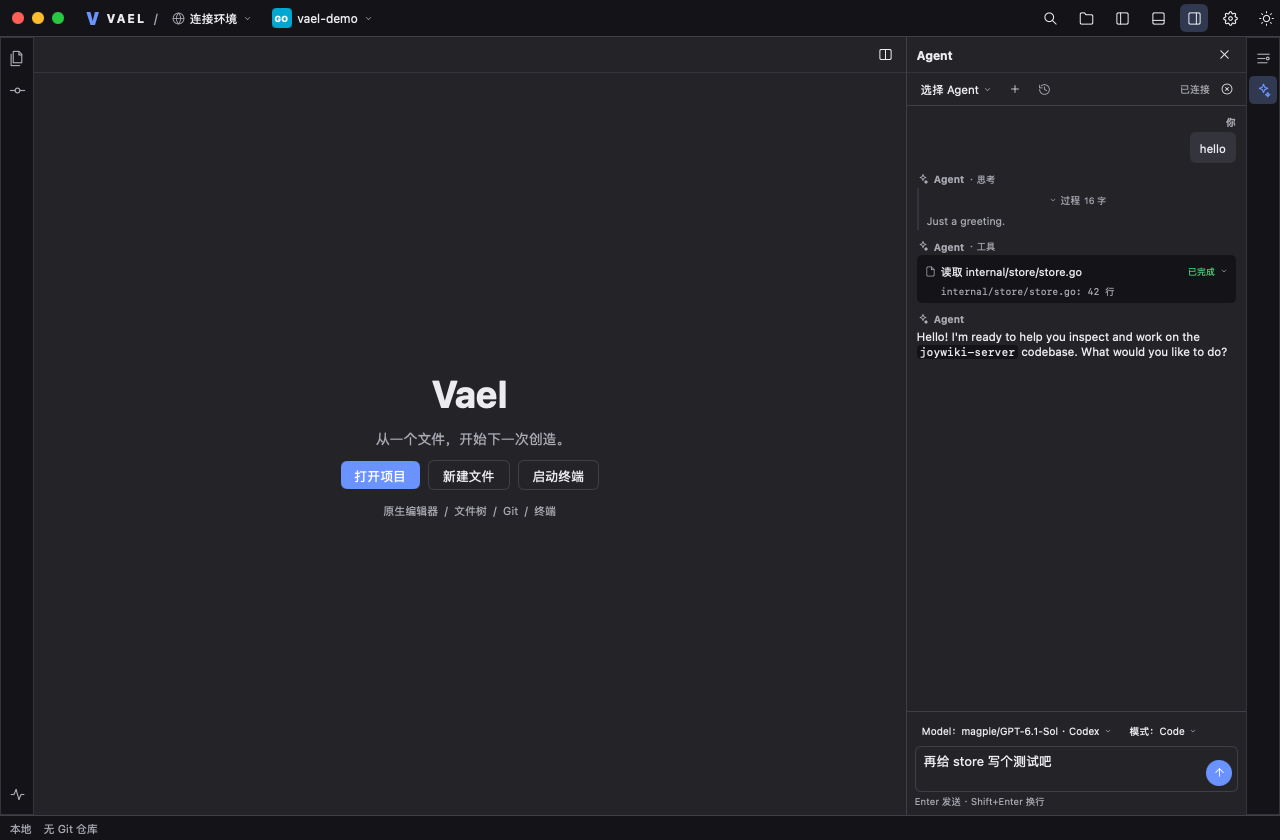
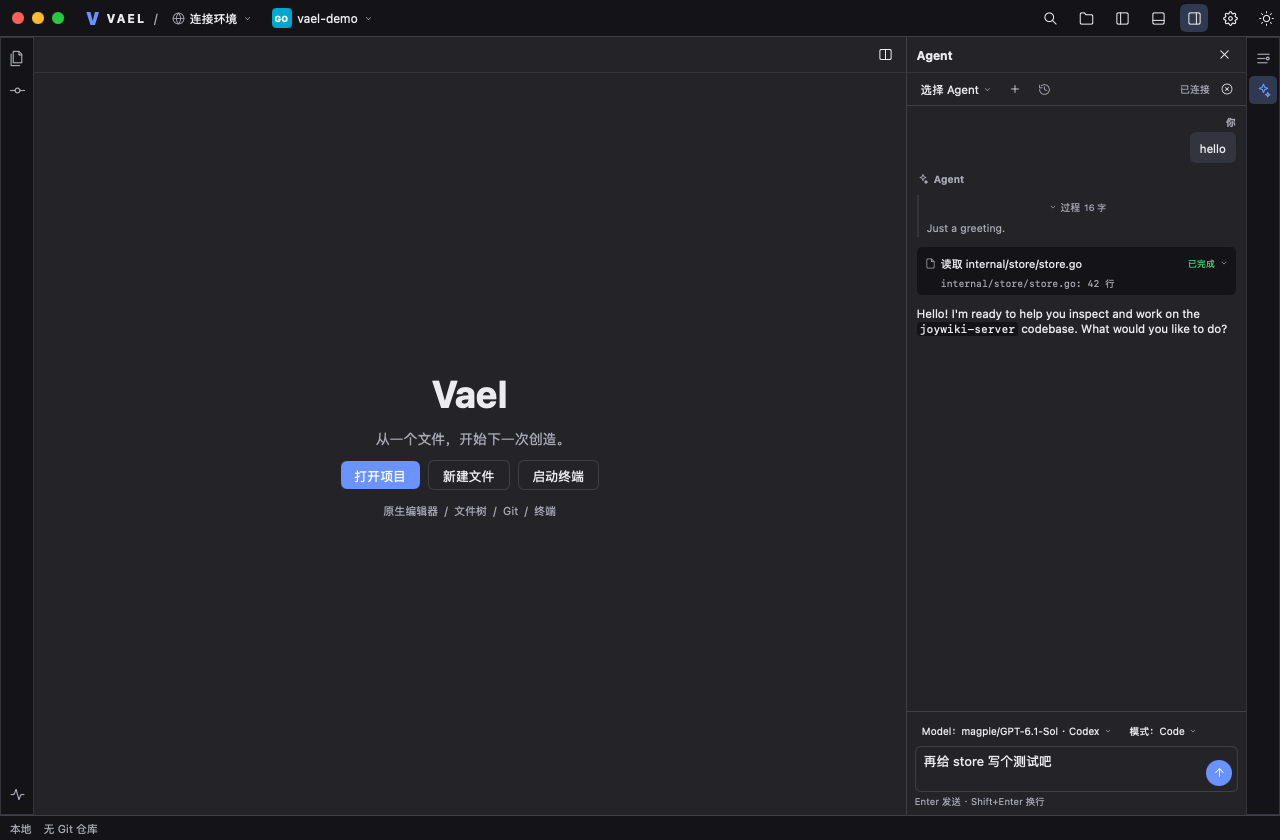
Agent 标记只在每段回复的顶部显示一次
- 之前思考、工具、回答各自画一个「Agent」，同一段回复里重复三次；
  改为在连续的 Agent 内容（thought/tool/agent）之前画一次，
  下一段用户提问之后再画一次；
- 去掉发送者行里的「· 思考 / · 工具」后缀，思考块自己保留「过程」；
- 测试：两轮对话只有两个 Agent 标记（外加面板标题），不再逐条标记；
  README 与截图更新。

Changed region(s): [[0.7188, 0.2476, 0.9688, 0.4333], [0.9062, 0.3095, 0.9688, 0.3405], [0.8125, 0.2167, 0.875, 0.2476]]

diff --git a/agent.go b/agent.go
@@ -579,8 +579,17 @@ func (a *app) agentView(c *ui.Context, p palette) {
 						a.agentEmptyView(c, p)
 						return
 					}
+					// One Agent mark at the top of what it says, not one on
+					// every thought, tool and answer of the same turn.
+					wasAgent := false
 					for i := range a.agentLines {
-						a.agentLineView(c, p, &a.agentLines[i], i)
+						line := &a.agentLines[i]
+						isAgent := line.Kind == "thought" || line.Kind == "tool" || line.Kind == "agent"
+						if isAgent && !wasAgent {
+							a.agentSender(c, p)
+						}
+						a.agentLineView(c, p, line, i)
+						wasAgent = isAgent
 					}
 					if a.agentBusy {
 						a.agentBusyView(c, p)
@@ -782,35 +791,22 @@ func (a *app) agentLineView(c *ui.Context, p palette, line *agentLine, index int
 		}
 		ui.Text(c, line.Text).FontSize(10.5).TextColor(color)
 	case "tool":
-		ui.Column(c).FillWidth().Gap(3).Children(func() {
-			a.agentSender(c, p, "工具")
-			a.agentToolView(c, p, line)
-		})
+		a.agentToolView(c, p, line)
 	case "thought":
-		ui.Column(c).FillWidth().Gap(3).Children(func() {
-			a.agentSender(c, p, "思考")
-			a.agentThoughtView(c, p, line, index)
-		})
+		a.agentThoughtView(c, p, line, index)
 	case "you":
 		a.agentMessageView(c, p, line.Text, true)
 	default:
-		ui.Column(c).FillWidth().Gap(3).Children(func() {
-			a.agentSender(c, p, "")
-			a.agentMessageView(c, p, line.Text, false)
-		})
+		a.agentMessageView(c, p, line.Text, false)
 	}
 }
 
-// agentSender marks what follows as the agent's: its thought, a tool it
-// ran, or the words it answered with. The user's words are on the right
-// instead, as the other side of the conversation.
-func (a *app) agentSender(c *ui.Context, p palette, kind string) {
+// agentSender is the mark at the top of what the agent says, before its
+// thought, tools and words. The user's words are on the other side.
+func (a *app) agentSender(c *ui.Context, p palette) {
 	ui.Row(c).FillWidth().Gap(5).AlignItems(ui.Center).Children(func() {
 		ui.Icon(c, agentIcon).Size(12, 12).TextColor(p.muted)
 		ui.Text(c, "Agent").FontSize(10).FontWeight(650).TextColor(p.muted)
-		if kind != "" {
-			ui.Text(c, "· "+kind).FontSize(9.5).TextColor(p.muted)
-		}
 	})
 }
 

diff --git a/agentconfig_test.go b/agentconfig_test.go
@@ -358,9 +358,8 @@ func TestAnUnknownConfigTypeIsLeftAlone(t *testing.T) {
 	}
 }
 
-// TestTheAgentContentIsAllHis checks that a thought, a tool and an answer
-// are each marked as coming from the agent, while the user's words are on
-// the other side.
+// TestTheAgentContentIsAllHis checks that one Agent mark heads the
+// thought, tools and answer of a turn, instead of naming each of them.
 func TestTheAgentContentIsAllHis(t *testing.T) {
 	a := newApp()
 	defer a.shutdown()
@@ -372,24 +371,25 @@ func TestTheAgentContentIsAllHis(t *testing.T) {
 		{Kind: "thought", Text: "写点什么。", Collapsed: true},
 		{Kind: "tool", Text: "读取 main.go", ToolKind: "read", State: "completed", Detail: "main.go"},
 		{Kind: "agent", Text: "你好。"},
+		{Kind: "you", Text: "再来一次"},
+		{Kind: "agent", Text: "好的。"},
 	}
 	tt := ui.NewTester(a.view, 1280, 840)
 	tt.Frame()
-	agents, kinds := 0, map[string]int{}
+	agents := 0
 	for _, text := range tt.Texts() {
 		if text == "Agent" {
 			agents++
 		}
+	}
+	// The panel's title is one more "Agent" than the two marks.
+	if agents != 3 {
+		t.Fatalf("the Agent marks: %d, %v", agents, tt.Texts())
+	}
+	for _, text := range tt.Texts() {
 		if text == "· 思考" || text == "· 工具" {
-			kinds[text]++
+			t.Fatalf("a mark names its kind again: %v", tt.Texts())
 		}
-	}
-	// The panel's title is one more "Agent" than the three senders.
-	if agents < 4 {
-		t.Fatalf("the agent is named %d times: %v", agents, tt.Texts())
-	}
-	if kinds["· 思考"] != 1 || kinds["· 工具"] != 1 {
-		t.Fatalf("the kinds: %v, %v", kinds, tt.Texts())
 	}
 	if _, ok := tt.Find("你"); !ok {
 		t.Fatalf("the user is not named: %v", tt.Texts())

diff --git a/README.md b/README.md
@@ -40,7 +40,7 @@ go tool mygo build   # 打包
 - **语言服务器（LSP）**：Go（gopls）、TypeScript、Rust、Python、C、Lua 的服务器**在项目所在的机器上运行**——远端项目就在远端启动。提供诊断（编辑器内下划线 + 状态栏计数）、补全、悬停、转到定义（优先于内置符号索引）与格式化（`⌘/Ctrl+Shift+I`）；设置里可逐个启用并改启动命令，保存在 `lsp.json`。左侧图标栏底部有一个状态按钮（问题数为徽标），点击在浮窗里看每个服务器在运行／启动中／出错／已关闭的状态与问题数，点一行即可进入设置。
 - **问题面板**（底部）：语言服务器报的诊断按文件分组列出（严重度标记、消息、来源与行列），左侧竖条的图标带问题数徽标，点一条即跳到文件里对应的位置。
 - **终端与任务**：多会话真实 PTY；任务输出实时流式显示，可停止、可发送到终端。
-- **Agent**：通过 **ACP（Agent Client Protocol）** 接入，可从官方 **ACP Registry**（`cdn.agentclientprotocol.com/registry/v1/latest/registry.json`）添加：索引按需拉取、缓存 6 小时、可搜索；有 **npx／uvx** 包的直接以包启动，只有二进制的按平台下载、校验 SHA-256、解压到配置目录再启动，分发的环境变量一并带上；也可手动命令添加。对话里，**思考过程**折叠成一行（进行中时展开）、**工具调用**是带图标/状态/详情的卡片、回答按 Markdown 渲染（行内代码与代码块）——三类内容都带 **Agent** 标记，用户的提问在另一侧；跟随滚动；工具栏有**会话历史**按钮（`session/list` 列出该项目的会话，点一条用 `session/load` 载入并回放；Agent 不支持时给出提示）与一个「停止 Agent」按钮；输入框默认两行（Enter 发送、Shift+Enter 换行，最长六行），**发送与停止是输入框右下角的同一个按钮**（空闲是 ↑、运行中是 ■，无内容时变灰），消息再长也固定在面板底部，离开末尾时右下角浮出**回到底部**；上方一排**会话选择器**来自 agent 的 `configOptions`（**模型排在最前**，与选项重名的值不重复显示，有 configOptions 时不再重复显示旧 `modes`；`session/set_config_option` 改、`config_option_update` 跟随），老协议用 `session/set_mode`；**工具审批**显示要运行的命令，可选允许一次／总是允许／拒绝（「总是」会记住）；Agent 的计划显示为任务清单、`input_required` 提示追问。
+- **Agent**：通过 **ACP（Agent Client Protocol）** 接入，可从官方 **ACP Registry**（`cdn.agentclientprotocol.com/registry/v1/latest/registry.json`）添加：索引按需拉取、缓存 6 小时、可搜索；有 **npx／uvx** 包的直接以包启动，只有二进制的按平台下载、校验 SHA-256、解压到配置目录再启动，分发的环境变量一并带上；也可手动命令添加。对话里，**思考过程**折叠成一行（进行中时展开）、**工具调用**是带图标/状态/详情的卡片、回答按 Markdown 渲染（行内代码与代码块）——三类内容同属一个 Agent，只在它们上方显示一次 **Agent** 标记，用户的提问在另一侧；跟随滚动；工具栏有**会话历史**按钮（`session/list` 列出该项目的会话，点一条用 `session/load` 载入并回放；Agent 不支持时给出提示）与一个「停止 Agent」按钮；输入框默认两行（Enter 发送、Shift+Enter 换行，最长六行），**发送与停止是输入框右下角的同一个按钮**（空闲是 ↑、运行中是 ■，无内容时变灰），消息再长也固定在面板底部，离开末尾时右下角浮出**回到底部**；上方一排**会话选择器**来自 agent 的 `configOptions`（**模型排在最前**，与选项重名的值不重复显示，有 configOptions 时不再重复显示旧 `modes`；`session/set_config_option` 改、`config_option_update` 跟随），老协议用 `session/set_mode`；**工具审批**显示要运行的命令，可选允许一次／总是允许／拒绝（「总是」会记住）；Agent 的计划显示为任务清单、`input_required` 提示追问。
 - **窗口**：自绘标题栏（macOS 交通灯／Windows 与 Linux 窗口按钮）；标题栏依次是**环境**、**项目**、**分支**三个切换器；四区布局——左侧「文件」「Commit」，右侧「大纲」「Agent」，底部「终端」「Git 日志」「问题」（只在两侧面板之间）；面包屑、状态栏、专注模式、会话恢复。
 - **连接**：SSH（自动探测平台并上传核心）、WSL、Docker；命名保存配置、最近 20 个项目、断线自动重连（保留缓冲区与终端）。
 - **设置**：固定高度的窗口，左侧纵向分区、右侧内容（参考 IDEA 的 Preferences），内容超过窗口高度时自己滚动——外观（**界面主题** 8 套、**图标主题** 2 套、**字体**（系统等宽字体，可搜索）、字号、行高（紧凑 120%／标准 150%／宽松 180%））、编辑器（换行、Tab 宽度、缩进、空白、参考线、自动闭合、行号、**缩略图**；**自动保存**时机、保存时去行尾空格／补末尾换行／格式化）、环境（远程环境管理）、语言服务器（逐个启用、改启动命令）、ACP Agent。
